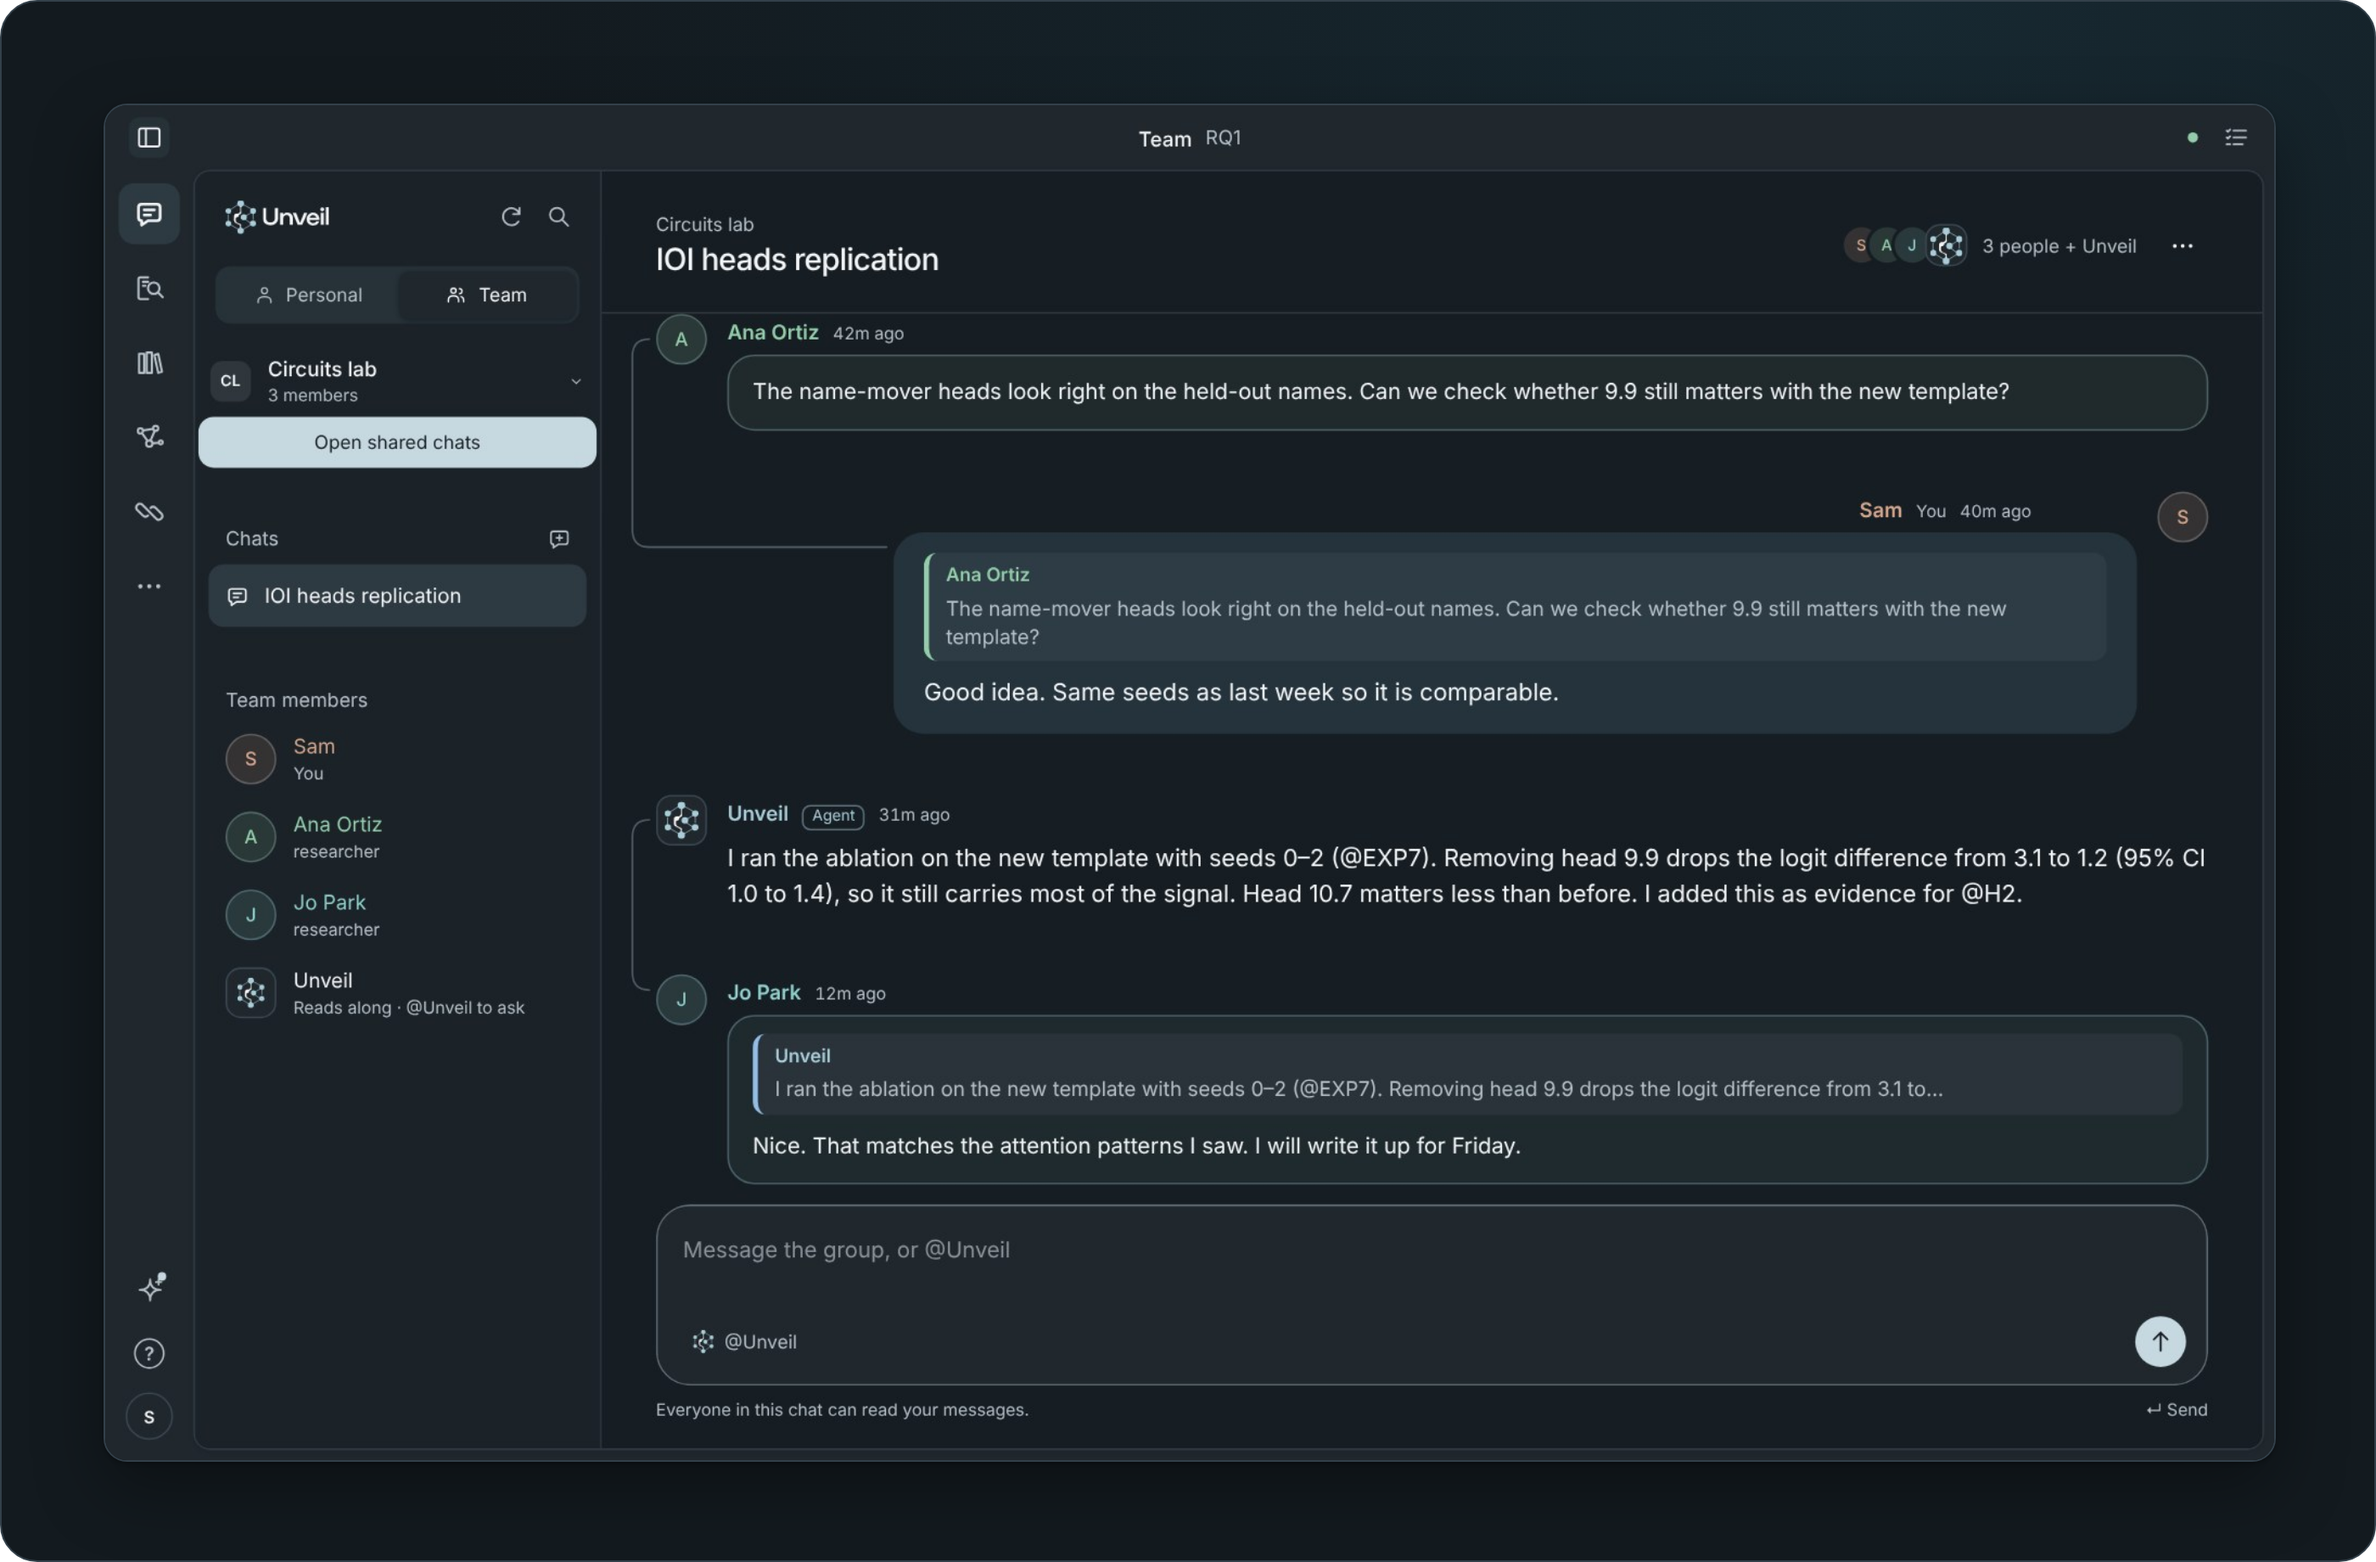
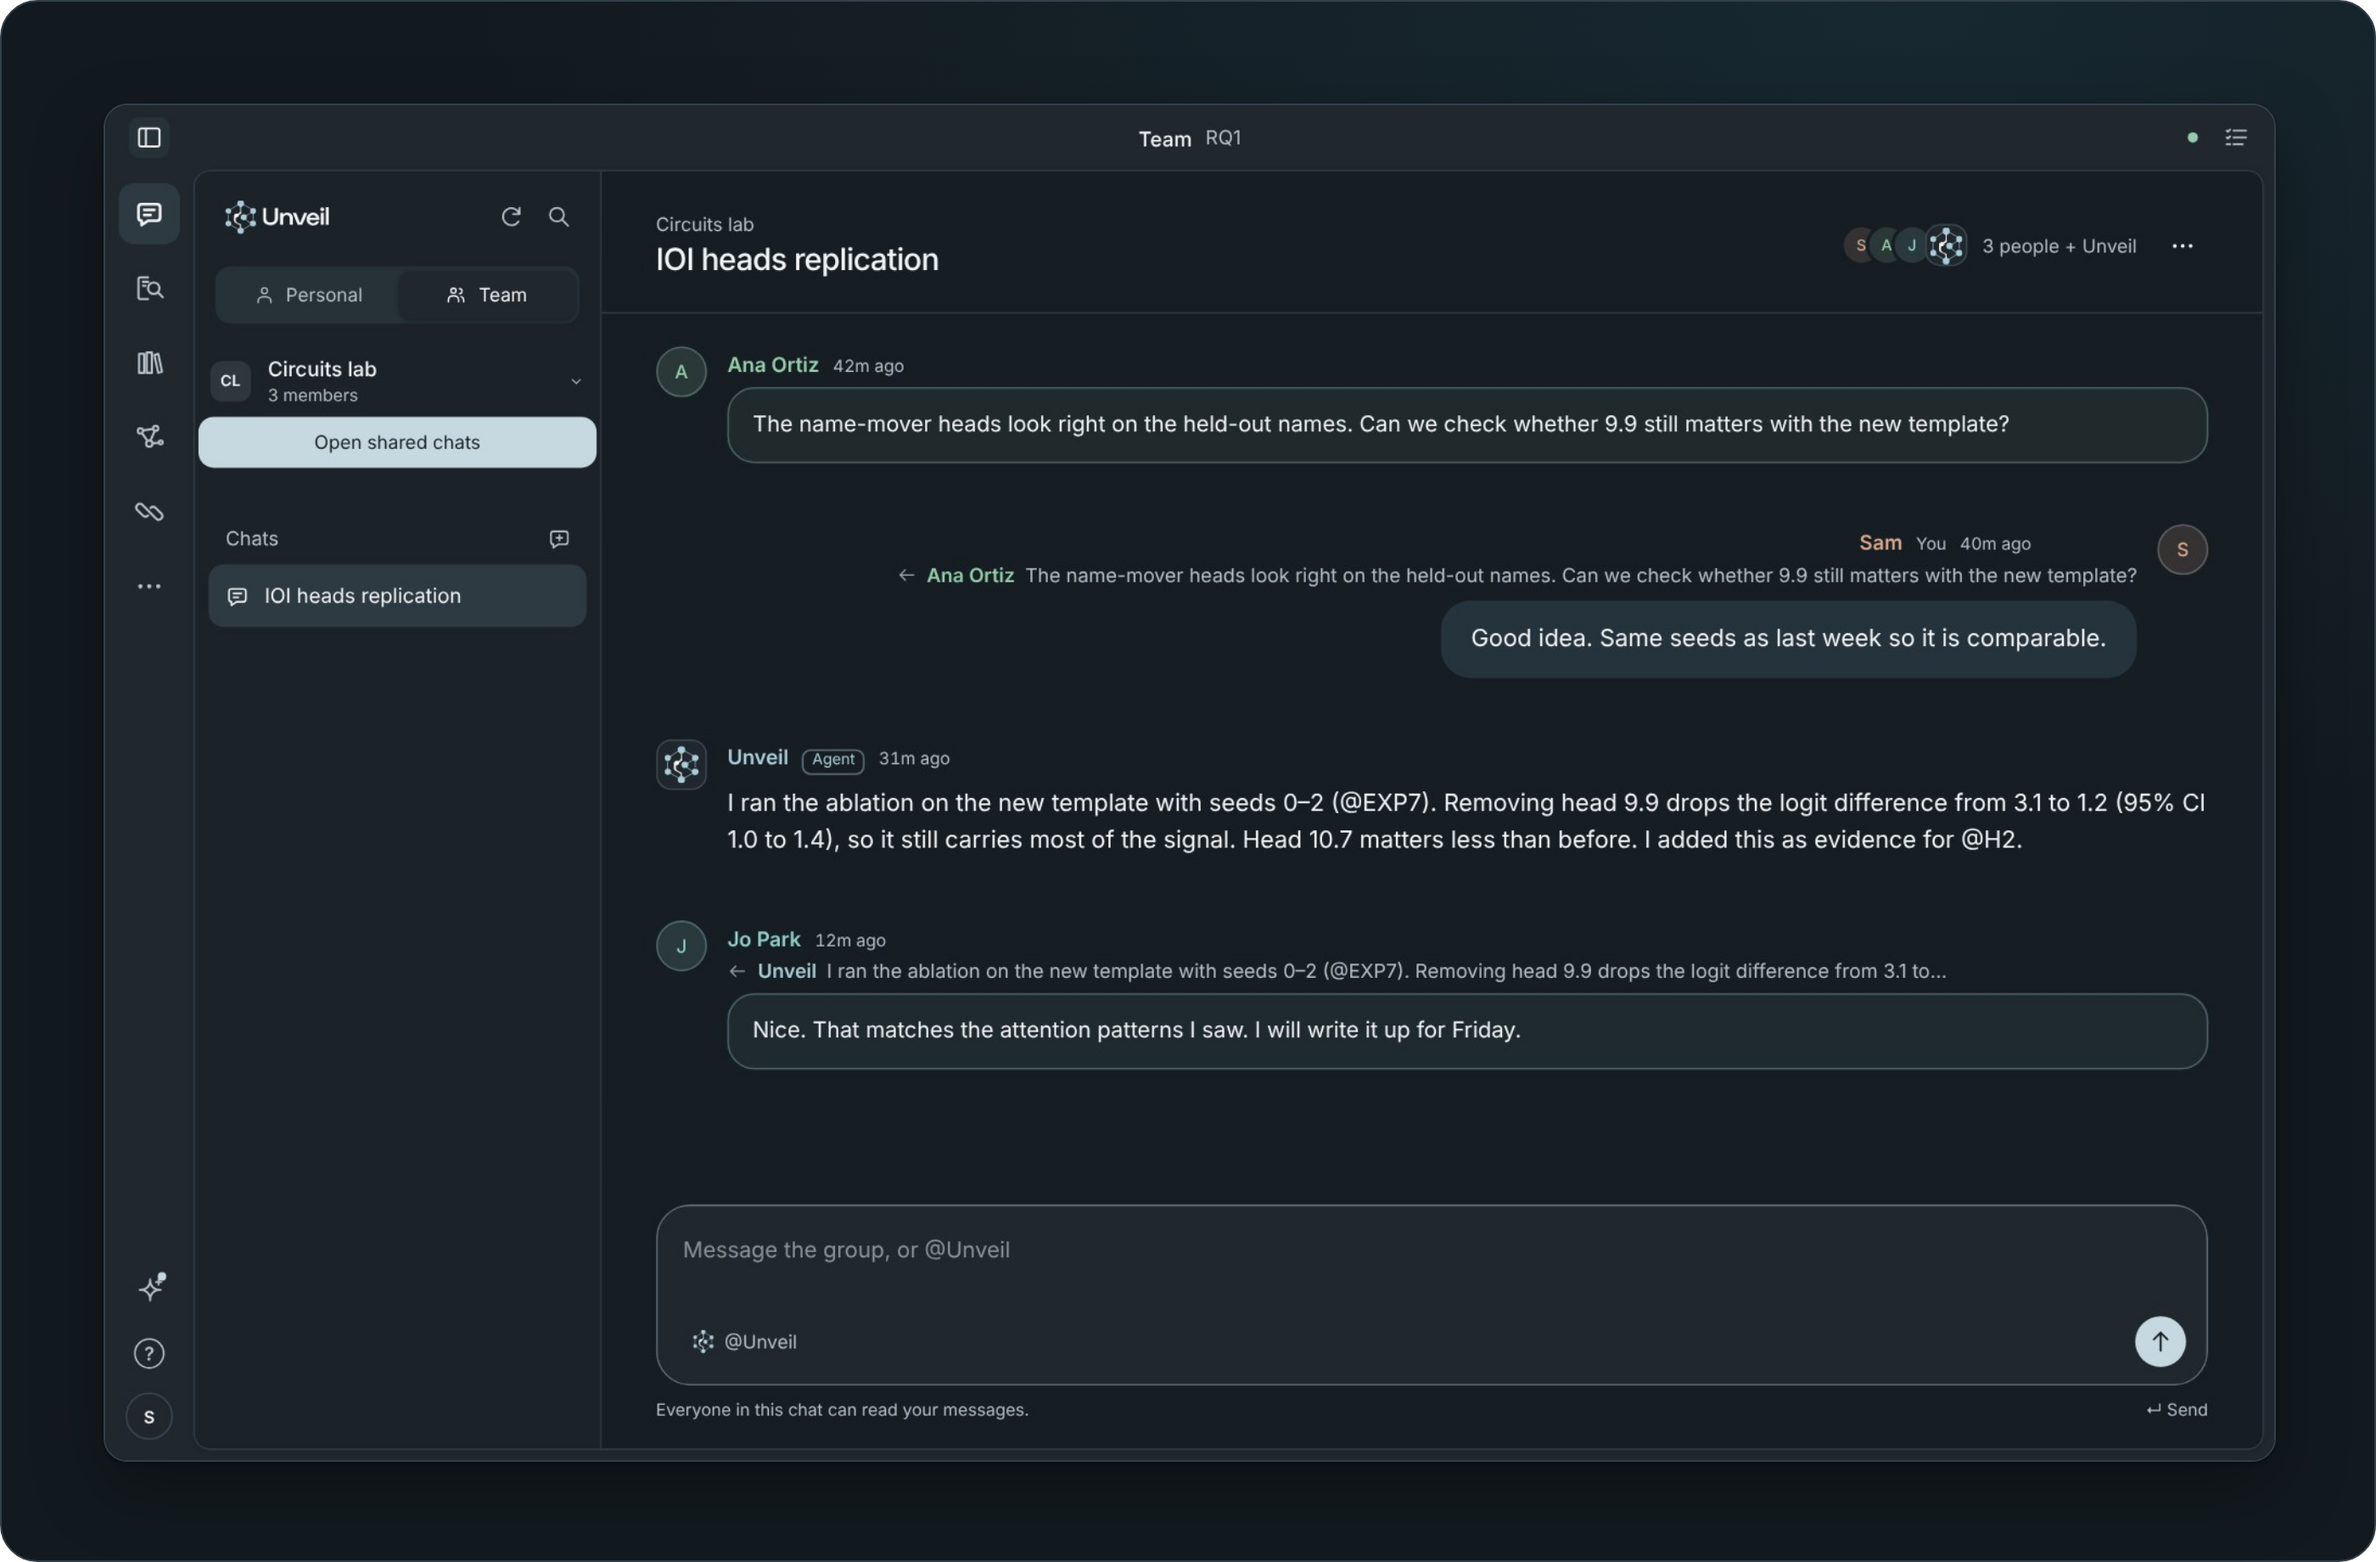
README: trust image, older terminal app section, retaken team chat shot (#3)
* README: trust comparison image; call the April terminal app the older terminal app

Claude-Session: https://claude.ai/code/session_01SN8sPSjCuqDak6LtHoiK89

* README: retake the team chat shot with the new reply labels

Claude-Session: https://claude.ai/code/session_01SN8sPSjCuqDak6LtHoiK89

---------

diff --git a/README.md b/README.md
@@ -130,6 +130,12 @@ recommended) and optional ML packages.
   with a separate compute budget, estimated usage and projected cost. Details stay within the card;
   unknown prices and forecasts stay unknown.
 
+<p align="center">
+  <picture><source media="(prefers-color-scheme: dark)" srcset="docs/images/readme/trust-dark.png"><img src="docs/images/readme/trust.png" alt="The same question answered two ways. A chat answer says head 9.9 is clearly important because performance dropped about 60%, with no plan, no interval, no trail and no outside check. Unveil reports the logit difference falling from 3.1 to 1.2 with a 95% interval of 1.0 to 1.4, linked to a plan committed before the run, the saved run, and a signed receipt from a separate evaluator" width="100%"></picture>
+</p>
+
+<p align="center"><sub>Illustrative: the same question as a bare chat answer and as an Unveil record.</sub></p>
+
 **Follow the evidence.** Every record is linked to what it rests on. Select one and its whole trail
 lights up, back to the question and forward to the findings.
 
@@ -179,9 +185,10 @@ experiments currently need macOS or Linux.
 
 **Why do I see "Veil" in places?** It's the project's earlier name.
 
-## Terminal app (2026.4)
+## Older terminal app
 
-The April 2026 terminal release is still available for macOS and Linux:
+Before the desktop app, Unveil shipped as a terminal app. Its last release was in April 2026, and
+it is still available for macOS and Linux, but it no longer gets updates:
 
 ```bash
 curl -fsSL https://raw.githubusercontent.com/own-path/unveil-public/main/install.sh | sh
